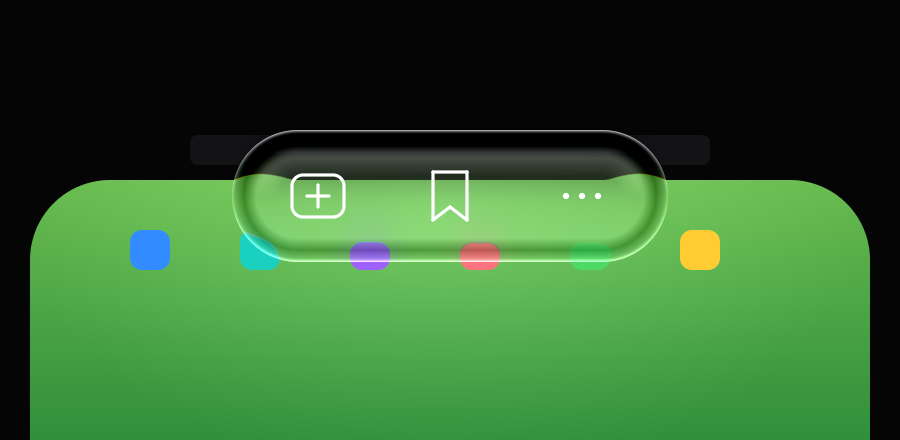
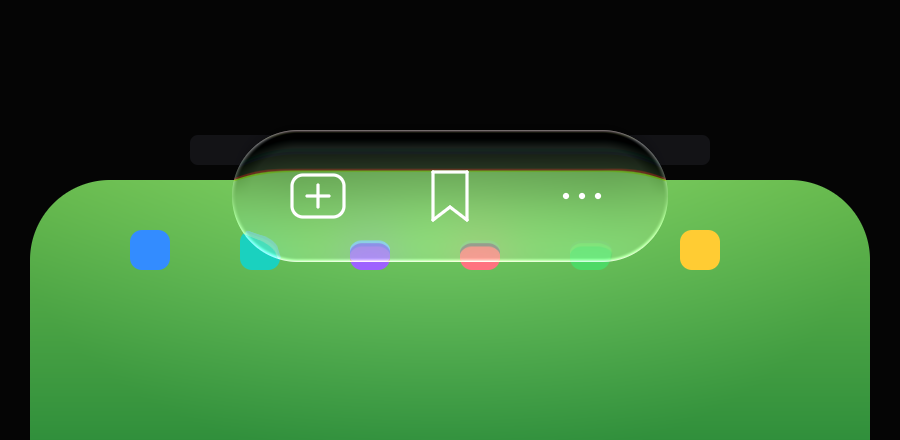
Add frosted blur + chromatic colour to the liked lens version
Based on the lens-magnification glass (thickness = h/2). Stronger frosted
blur (frost 0.28->0.45, blur radius 14->22, a touch heavier toward centre)
and real chromatic dispersion: split R/G/B sampling along the normal,
growing toward the rim (ca 0.035->0.10) for a coloured glass edge.

Changed region(s): [[0.2489, 0.2955, 0.7467, 0.5909]]

diff --git a/liquid-glass/glass.js b/liquid-glass/glass.js
@@ -1,7 +1,7 @@
 // Liquid-glass refraction for a rounded-rect / capsule region.
 // Uses the LENS magnification model (magnified centre, compressed rim) adapted
 // to the capsule via its SDF normal + depth — plus all-edge reflections, frost
-// and shading. Shared by the browser widget and the offline Node preview.
+// blur and chromatic dispersion. Shared by the browser widget and the Node preview.
 (function (root, factory) {
   if (typeof module !== 'undefined' && module.exports) module.exports = factory();
   else root.LiquidGlass = factory();
@@ -32,14 +32,13 @@
   // bg, blurred, out: RGBA buffers (0..255). cap = {cx,cy,w,h,r}.
   function render(bg, blurred, out, W, H, cap, opts) {
     opts = opts || {};
-    var mag   = opts.mag   != null ? opts.mag   : 0.52;  // <1 => stronger magnification
-    var ca    = opts.ca    != null ? opts.ca    : 0.05;  // chromatic aberration (dispersion)
-    var frost = opts.frost != null ? opts.frost : 0.32;  // milky frost
+    var mag   = opts.mag   != null ? opts.mag   : 0.62;  // <1 => stronger magnification
+    var ca    = opts.ca    != null ? opts.ca    : 0.10;  // chromatic dispersion (rainbow rim)
+    var frost = opts.frost != null ? opts.frost : 0.45;  // frosted-blur strength (0..1)
     var tintT = opts.tint  != null ? opts.tint  : 0.06;
     var cx = cap.cx, cy = cap.cy, w = cap.w, h = cap.h, r = cap.r;
-    // "thickness" => depth of refraction. (halved from the chunky version)
-    var thick = opts.thickness != null ? opts.thickness : Math.min(w, h) / 2 * 0.75;
-    var pg = [0,0,0], pr = [0,0,0], pb = [0,0,0], bl = [0,0,0];
+    var thick = opts.thickness != null ? opts.thickness : Math.min(w, h) / 2; // half-thickness
+    var p0 = [0,0,0], pr = [0,0,0], pg = [0,0,0], pb = [0,0,0], bl = [0,0,0];
 
     var x0 = Math.max(0, Math.floor(cx - w/2 - 2)), x1 = Math.min(W, Math.ceil(cx + w/2 + 2));
     var y0 = Math.max(0, Math.floor(cy - h/2 - 2)), y1 = Math.min(H, Math.ceil(cy + h/2 + 2));
@@ -56,21 +55,26 @@
         var nl = Math.hypot(nx, ny) || 1; nx /= nl; ny /= nl;
 
         // LENS magnification along the normal: nr = 1 at rim, 0 at the spine.
-        var e = -d;                                   // depth from the edge
+        var e = -d;
         var nr = clamp(1 - e / thick, 0, 1);
         var s  = srcRadius(nr, mag);
-        var ea = nr * nr * nr;                        // chromatic grows toward the rim
         var og = (s - nr) * thick;                    // inward offset (negative) => magnify
-        var oR = (s - ca * ea - nr) * thick;
-        var oB = (s + ca * ea - nr) * thick;
-        sample(bg, W, H, x + nx * og, y + ny * og, pg);
+
+        // CHROMATIC DISPERSION: split R/G/B sampling along the normal, growing
+        // toward the rim, so the edge fringes into colour like real glass.
+        var ea  = nr * nr;                            // 0 centre -> 1 rim (wider band)
+        var disp = ca * ea * thick;
+        var oR = og - disp, oG = og, oB = og + disp;
         sample(bg, W, H, x + nx * oR, y + ny * oR, pr);
+        sample(bg, W, H, x + nx * oG, y + ny * oG, pg);
         sample(bg, W, H, x + nx * oB, y + ny * oB, pb);
         var R = pr[0], G = pg[1], B = pb[2];
 
-        // frost: blend toward the blurred backdrop
+        // FROST BLUR: blend toward the blurred backdrop. A touch stronger toward
+        // the centre (thicker light path) so it reads as a real frosted panel.
         sample(blurred, W, H, x + nx * og, y + ny * og, bl);
-        R = R + (bl[0] - R) * frost; G = G + (bl[1] - G) * frost; B = B + (bl[2] - B) * frost;
+        var fr = frost * (0.7 + 0.3 * (1 - nr));
+        R = R + (bl[0] - R) * fr; G = G + (bl[1] - G) * fr; B = B + (bl[2] - B) * fr;
 
         // milky tint
         R += (255 - R) * tintT; G += (255 - G) * tintT; B += (255 - B) * tintT;
@@ -80,15 +84,14 @@
         var body = (v - 0.45) * 34;
         R = clamp(R + body, 0, 255); G = clamp(G + body, 0, 255); B = clamp(B + body, 0, 255);
 
-        // THICK-GLASS edge wall: a bright outer rim, a dark refracting wall band
-        // a little inside, then a softer inner-bevel highlight deeper in. The
-        // banding across ~30px of depth is what reads as real glass thickness.
-        var rmO   = clamp(1 - e / 4.5, 0, 1); rmO *= rmO;                       // outer rim
-        var reflO = rmO * (Math.max(0, -ny) * 180 + Math.max(0, ny) * 85 + 24);
-        var wall  = clamp(1 - Math.abs(e - 12) / 12, 0, 1) * 62;                // dark glass wall
-        var bevel = clamp(1 - Math.abs(e - 28) / 18, 0, 1) * Math.max(0, -ny) * 50; // inner highlight
-        var lift  = reflO - wall + bevel;
-        R = clamp(R + lift, 0, 255); G = clamp(G + lift, 0, 255); B = clamp(B + lift, 0, 255);
+        // REFLECTIONS on every edge: bright top rim, bottom glow, faint all-around
+        var rm = clamp(1 - e / 5.0, 0, 1); rm *= rm;
+        var refl = rm * (Math.max(0, -ny) * 150 + Math.max(0, ny) * 95 + 26);
+        R = clamp(R + refl, 0, 255); G = clamp(G + refl, 0, 255); B = clamp(B + refl, 0, 255);
+
+        // soft dark "glass thickness" just inside the top edge
+        var topDark = clamp(1 - e / 18, 0, 1) * Math.max(0, -ny) * 44;
+        R = clamp(R - topDark, 0, 255); G = clamp(G - topDark, 0, 255); B = clamp(B - topDark, 0, 255);
 
         out[o] = R; out[o+1] = G; out[o+2] = B; out[o+3] = clamp(-d + 0.5, 0, 1) * 255;
       }

diff --git a/liquid-glass/render_toolbar.js b/liquid-glass/render_toolbar.js
@@ -41,7 +41,7 @@ function boxBlur(src,radius,passes){let cur=src;for(let p=0;p<passes;p++){const 
     for(let x=0;x<W;x++){tmp[I(x,y)+c]=acc/n;acc+=cur[I(clamp(x+radius+1,0,W-1),y)+c]-cur[I(clamp(x-radius,0,W-1),y)+c];}}
   for(let x=0;x<W;x++)for(let c=0;c<3;c++){let acc=0;const n=radius*2+1;for(let y=-radius;y<=radius;y++)acc+=tmp[I(x,clamp(y,0,H-1))+c];
     for(let y=0;y<H;y++){o2[I(x,y)+c]=acc/n;acc+=tmp[I(x,clamp(y+radius+1,0,H-1))+c]-tmp[I(x,clamp(y-radius,0,H-1))+c];}}cur=o2;}return cur;}
-const blurred = boxBlur(bg.slice(), 14, 3);
+const blurred = boxBlur(bg.slice(), 22, 3);
 
 // ---------------- composite ----------------
 out.set(bg);

diff --git a/liquid-glass/toolbar-refract.html b/liquid-glass/toolbar-refract.html
@@ -57,7 +57,7 @@
         for(let y=0;y<H;y++){o[idx(x,y)+c]=acc/n;acc+=tmp[idx(x,cl(y+radius+1,0,H-1))+c]-tmp[idx(x,cl(y-radius,0,H-1))+c];}}cur=o;}
     const out=new Uint8ClampedArray(cur.length); for(let i=0;i<cur.length;i++)out[i]=cur[i]; return out;
   }
-  const blurred = boxBlur(bgData, 14, 3);
+  const blurred = boxBlur(bgData, 22, 3);
 
   // ---- glass state ----
   const cap = {cx:450, cy:196, w:436, h:132, r:66};
